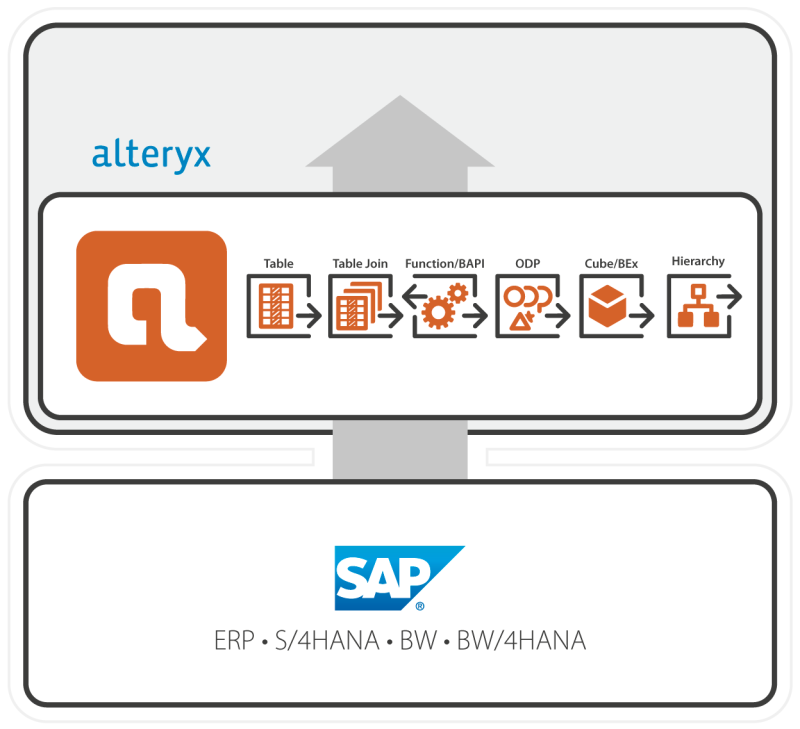
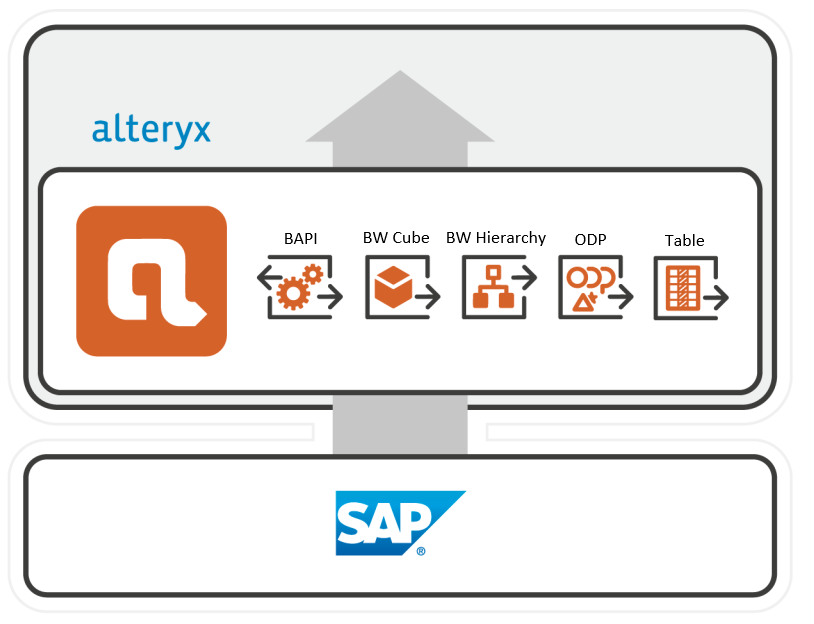
xfa poc; improvements

Changed region(s): [[0.0, 0.0304, 1.0, 0.9744], [0.25, 0.8526, 0.3125, 0.883]]

diff --git a/content/_de/xtract-for-alteryx/index.md b/content/_de/xtract-for-alteryx/index.md
@@ -12,28 +12,35 @@ lang: de_DE
 ---
 Willkommen in der Online Help von Xtract for Alteryx.
 
-### Architektur
 
-Xtract for Alteryx ist ein Plug-In für den Alteryx Designer und Server. Xtract for Alteryx kann nicht außerhalb von Alteryx Designer und Server verwendet werden, <br>
-sodass eine Alteryx Lizenz notwendig ist. 
+Xtract for Alteryx ist ein Plug-In für den Alteryx Designer und Server.
+Xtract for Alteryx ermöglicht es Daten aus dem SAP-System direkt innerhalb des Alteryx Designers in den Datenfluss einzubinden.
 
-Die Xtract for Alteryx Komponentensuite bietet Ihnen insgesamt 6 unterschiedliche Komponenten für die SAP-Integration in Alteryx an.
+![XFA-Architecture](/img/content/xfa/Xtract_for_Alteryx.png){:class="img-responsive"}
 
-![XIS-Architecture](/img/content/xfa/Xtract_for_Alteryx.png){:class="img-responsive"}
+### Verfügbare Komponenten
+Die Xtract for Alteryx Komponentensuite bietet Ihnen insgesamt 5 unterschiedliche Komponenten für die SAP-Integration in Alteryx an.
+Je nach Art des SAP-Quellsystems gibt es unterschiedliche Szenarien beim Einsatz der Komponenten:
 
-### Verwendung der Komponenten
+- [**BAPI**](./bapis-und-funktionsbausteine) greift auf BAPIs und RFC-Funktionsmodule zu.
+- [**BW Cube**](./bw-infocubes-und-bex-queries) extrahiert Dateb aus SAP BW InfoCubes und BEx Queries.
+- [**BW Hierarchy**](./bw-hierarchien) extrahiert Hierarchien aus SAP BW / BI Systemen.
+- [**ODP**](./odp) extrahiert Daten über das SAP Operational Data Provisioning (ODP) Framework.
+- [**Table**](./table)  extrahiert Daten aus SAP-Tabellen und Views; ermöglicht das Zusammenführen mehrerer Tabellen auf der SAP-Seite.
+
 In der unten stehenden Übersicht sehen Sie, bei welcher Komponente Lese (R),- und Schreibrechte (W) zur Verfügung stehen. 
 
 | Komponente | ERP | BW | 
 |:------------:|:-----:|:----:|
-| Table       | R   | R  | 
-| Table Join  | R   | R  | 
-| Function/BAPI        | R/W  | R/W |
+| BAPI        | R/W  | R/W |
+| BW Cube  |     | R  |
+| BW Hierarchy   |     | R  | 
 | ODP       | R   |  R  |
-| Cube/BEx     |     | R  |
-| Hierarchy   |     | R  | 
+| Table       | R   | R  |
+
+{: .box-note }
+**Hinweis:** Weitere Szenarien und Kombinationen sind möglich.
 
 
-Diese Hilfe beinhaltet folgende Abschnitt:
-
+Weitere Informationen zu den Funktionen von Xtract for Alteryx finden Sie in den folgenden Abschnitten:
 {% include _content/table-of-contents.html parent=page.childidentifier collection=site.de %}

diff --git a/content/_en/xtract-for-alteryx/index.md b/content/_en/xtract-for-alteryx/index.md
@@ -10,29 +10,39 @@ permalink: /:collection/:path
 weight: 1
 lang: en_GB
 ---
-Welcome to the online help of Xtract for Alteryx.
+Welcome to the Online Help of Xtract for Alteryx.
 
-### Architecture
 
-Xtract for Alteryx is a plug-in for the Alteryx Designer and Server. Xtract for Alteryx cannot be used outside of Alteryx Designer and Server, <br>
-so an Alteryx license is required. 
+Xtract for Alteryx is a plug-in for Alteryx Designer and Server. 
+Xtract for Alteryx enables integrating data from the SAP system into the data flow of your Alteryx solution.
 
-The Xtract for Alteryx component suite offers you a total of 6 different components for SAP integration in Alteryx.
+![XFA-Architecture](/img/content/xfa/Xtract_for_Alteryx.png){:class="img-responsive"}
 
-![XIS-Architecture](/img/content/xfa/Xtract_for_Alteryx.png){:class="img-responsive"}
+### Available Components
+The Xtract for Alteryx component suite offers you a total of 5 different components for SAP integration in Alteryx.
+Common scenarios when using the components depending on the type of the SAP source system:
 
-### Use of the components
+- [**BAPI**](./bapis-and-function-modules) accesses BAPIs and RFC function modules.
+- [**BW Cube**](./bw-infocubes-and-bex-queries) extracts data from SAP BW InfoCubes and BEx Queries.
+- [**BW Hierarchy**](./bw-hierarchies) extracts Hierarchies from an SAP BW / BI system.
+- [**ODP**](./odp) extracts data via the SAP Operational Data Provisioning (ODP) framework.
+- [**Table**](./table) extracts data from SAP tables and views; allows joining several tables on the SAP side.
+
+
 The overview below shows you for which component read (R) and write (W) rights are available.  
 
-| Komponente | ERP | BW | 
+| Component | ERP | BW | 
 |:------------:|:-----:|:----:|
-| Table       | R   | R  | 
-| Table Join  | R   | R  | 
-| Function/BAPI        | R/W  | R/W |
+| BAPI        | R/W  | R/W |
+| BW Cube  |     | R  |
+| BW Hierarchy   |     | R  | 
 | ODP       | R   |  R  |
-| Cube/BEx     |     | R  |
-| Hierarchy   |     | R  | 
+| Table       | R   | R  |
 
-This help includes the following chapters:
+
+{: .box-note }
+**Note:** Further scenarios and combinations are possible.
+
+More information on functions of Xtract for Alteryx is provided in the following sections:
 
 {% include _content/table-of-contents.html parent=page.childidentifier collection=site.en %}

diff --git a/content/_de/xtract-is/einfuehrung/installation.md b/content/_de/xtract-is/einfuehrung/installation.md
@@ -48,7 +48,7 @@ Die folgende Liste zeigt einige der wichtigsten Dateien, die nach der Installati
 | XtractISConversionPreparer.exe | Tool, das SSIS-Pakete (inkl. Xtract IS-Komponente), die für ältere Versionen von SSIS erstellt wurden, für die Migration auf neuere Versionen von SSIS vorbereitet. Weitere Informationen im Abschnitt [SSIS Migration](./ssis-migration).|
 |xis_version.bat | Versions-Batchdatei. Achten Sie beim Start von xis_version.bat darauf, die Datei XtractISVersionInfo.exe aus dem Installationsverzeichnis als Parameter zu übergeben.|
 | XtractLicenseManager.exe | Anwendung zum Einspielen und Prüfen der aktuellen Lizenz. |
-| uninst.exe | Tool zum Deinstallieren und Entfernen von Xtract IS mit allen dazugehörigen Komponenten von Ihrem Rechner. |
+|Uninstall Xtract IS.lnk| Tool zum Deinstallieren und Entfernen von Xtract IS mit allen dazugehörigen Komponenten von Ihrem Rechner. |
 | gac-uninstall.bat | Tool zum Leeren des GAC von allen Xtract IS-bezogenen Komponenten.|
 | Eula_XtractIS.rtf | Dokument mit der Lizenzvereinbarung zur Nutzung der Software Xtract IS.|
 |XtractISLicense.json| Lizenzdatei mit Server-, Komponenten-  und Laufzeitinformationen|

diff --git a/content/_en/xtract-is/introduction/installation.md b/content/_en/xtract-is/introduction/installation.md
@@ -50,7 +50,7 @@ The list below shows several most important files that are placed into the defau
 |XtractISConversionPreparer.exe| Tool, which prepares older version of SSIS packages (containing Xtract IS components) for migration to newer versions of SSIS. See also section [SSIS Migration](./ssis-migration).|
 | xis_version.bat | Version batch file. When starting xis_version.bat, make sure to pass XtractISVersionInfo.exe file from the installation directory as a parameter.|
 | XtractLicenseManager.exe | Application to manage and view licenses.|
-| uninst.exe | Tool for uninstalling and removing Xtract IS with all its components from your machine. |
+| Uninstall Xtract IS.lnk | Tool for uninstalling and removing Xtract IS with all its components from your machine. |
 | gac-uninstall.bat | Tool to clear the GAC of all Xtract IS related components.|
 | Eula_XtractIS.rtf | Document containing the license agreement for the use of the software Xtract IS.|
 | XtractISLicense.json | License file with information about the server, the component and runtime. |

diff --git a/content/_de/xtract-for-alteryx/einfuehrung.md b/content/_de/xtract-for-alteryx/einfuehrung.md
@@ -1,5 +1,5 @@
 ---
-ref: xtract-for-alteryx-01
+ref: xtract-for-alteryx-03
 layout: page
 title: Einführung
 description: Einführung
@@ -7,11 +7,12 @@ product: xtract-for-alteryx
 parent: xtract-for-alteryx
 childidentifier: einfuehrung
 permalink: /:collection/:path
-weight: 1
+weight: 3 
 lang: de_DE
+progressstate: 5
 ---
 
-Dieser Abschnitt bietet einen Überblick über die Architektur von Xtract for Alteryx und führt in die Installation und Benutzung ein. <br>
-Die Versionshistorie finden Sie unter https://kb.theobald-software.com/version-history/xtract-for-alteryx-version-history .<br>
+Xtract for Alteryx ist ein Plug-In für [Alteryx](https://www.alteryx.com).
 
+Weitere Informationen hierzu finden Sie in den nachfolgenden Abschnitten, die einen Überblick über die Voraussetzungen bieten und in die Installation einführen.
 {% include _content/table-of-contents.html parent=page.childidentifier collection=site.de %}

diff --git a/content/_de/xtract-is/einfuehrung.md b/content/_de/xtract-is/einfuehrung.md
@@ -14,7 +14,8 @@ old_url: /Xtract-IS-DE/default.aspx?pageid=voraussetzungen-und-installation
 Xtract IS ist ein Plug-in für die [SQL Server Integration Services (SSIS)](https://docs.microsoft.com/en-us/sql/integration-services/sql-server-integration-services).
 Xtract IS ermöglicht die Extraktion von Daten aus SAP-Systemen und das Schreiben von Daten in SAP-Systeme.
 
+![XIS-Architecture](/img/content/xis/architectures_xis_neu.png){:class="img-responsive"}
 
-Weitere Informationen hierzu finden Sie in den nachfolgenden Abschnitten, die einen Überblick über die Voraussetzungen bieteb und in die Installation einführen.
+Weitere Informationen hierzu finden Sie in den nachfolgenden Abschnitten, die einen Überblick über die Voraussetzungen bieten und in die Installation einführen.
 
 {% include _content/table-of-contents.html parent=page.childidentifier collection=site.de %}

diff --git a/content/_en/xtract-for-alteryx/introduction.md b/content/_en/xtract-for-alteryx/introduction.md
@@ -1,5 +1,5 @@
 ---
-ref: xtract-for-alteryx-01
+ref: xtract-for-alteryx-03
 layout: page
 title: Introduction
 description: Introduction
@@ -7,11 +7,11 @@ product: xtract-for-alteryx
 parent: xtract-for-alteryx
 childidentifier: introduction
 permalink: /:collection/:path
-weight: 1
+weight: 3
 lang: en_GB
 ---
 
-This section provides an overview of the architecture of Xtract for Alteryx and introduces installation and usage. <br>
-You can find the version history under https://kb.theobald-software.com/version-history/xtract-for-alteryx-version-history .<br>
+Xtract for Alteryx is a plug-in for [Alteryx](https://www.alteryx.com).
 
+The following sections include information about the requirements and the installation process of Xtract for Alteryx.
 {% include _content/table-of-contents.html parent=page.childidentifier collection=site.en %}

diff --git a/content/_en/xtract-universal/index.md b/content/_en/xtract-universal/index.md
@@ -20,6 +20,7 @@ in the context of business intelligence, data integration and data analytics.
 ### Available Components
 <!--- Tabelle notwendig? Nicht vollständig nicht 100%ig korrekt. Pre-Sales fragen. Unterteilung in BW und ERP sinnvoll für den Kunden?--->
 The following overview shows, which components are available to extract data from SAP systems. 
+![XU-Components](/img/content/xu/xu_components.png){:class="img-responsive"}
 
 <!-- Auflistung der Komponenten mit der kurzen Beschreibung und dem Link zu den Inhalten-->
 

diff --git a/content/_en/xtract-is/introduction.md b/content/_en/xtract-is/introduction.md
@@ -15,6 +15,6 @@ Xtract IS is a plug-in for the [SQL Server Integration Services (SSIS)](https://
 Xtract IS allows extracting data from SAP systems and writing data to SAP systems.
 
 
-The following sections inculde information about the requirements and the installation process of Xtract IS:
+The following sections include information about the requirements and the installation process of Xtract IS:
 
 {% include _content/table-of-contents.html parent=page.childidentifier collection=site.en %}

diff --git a/content/_de/xtract-universal/index.md b/content/_de/xtract-universal/index.md
@@ -20,6 +20,7 @@ im Rahmen von Business Intelligence, Datenintegration und Datenanalyse.
 ### Verfügbare Komponenten
 
 In der folgenen Übersicht finden Sie, welche Komponente für die Datenextraktion aus einem SAP-System verwendet werden können. 
+![XU-Components](/img/content/xu/xu_components.png){:class="img-responsive"}
 
 #### Extraktionstypen
 Xtract Universal bietet einen Satz von neun Extraktionstypen, um eine Reihe von Anforderungen der SAP-Datenextraktion abzudecken.

diff --git a/content/_de/xtract-for-alteryx/about-this-online-help.md b/content/_de/xtract-for-alteryx/about-this-online-help.md
@@ -1,0 +1,14 @@
+---
+ref: xtract-for-alteryx-02
+layout: page
+title: Über die Online-Help
+description:  Allgemeine Informationen zum Inhalt der Online-Hilfe
+product: xtract-for-alteryx
+parent: xtract-for-alteryx
+permalink: /:collection/:path
+weight: 2
+lang: de_DE
+---
+
+{% include _content/de/about-this-online-help/about-help-content-ts.md %} 
+

diff --git a/content/_en/xtract-for-alteryx/getting-started-table.md b/content/_en/xtract-for-alteryx/getting-started-table.md
@@ -1,5 +1,5 @@
 ---
-ref: xtract-for-alteryx-02
+ref: xtract-for-alteryx-04
 layout: page
 title: Getting Started with Table
 description: Getting Started with Table
@@ -7,7 +7,7 @@ product: xtract-for-alteryx
 parent: xtract-for-alteryx
 childidentifier: getting-started-table
 permalink: /:collection/:path
-weight: 2
+weight: 4
 lang: en_GB
 
 ---
